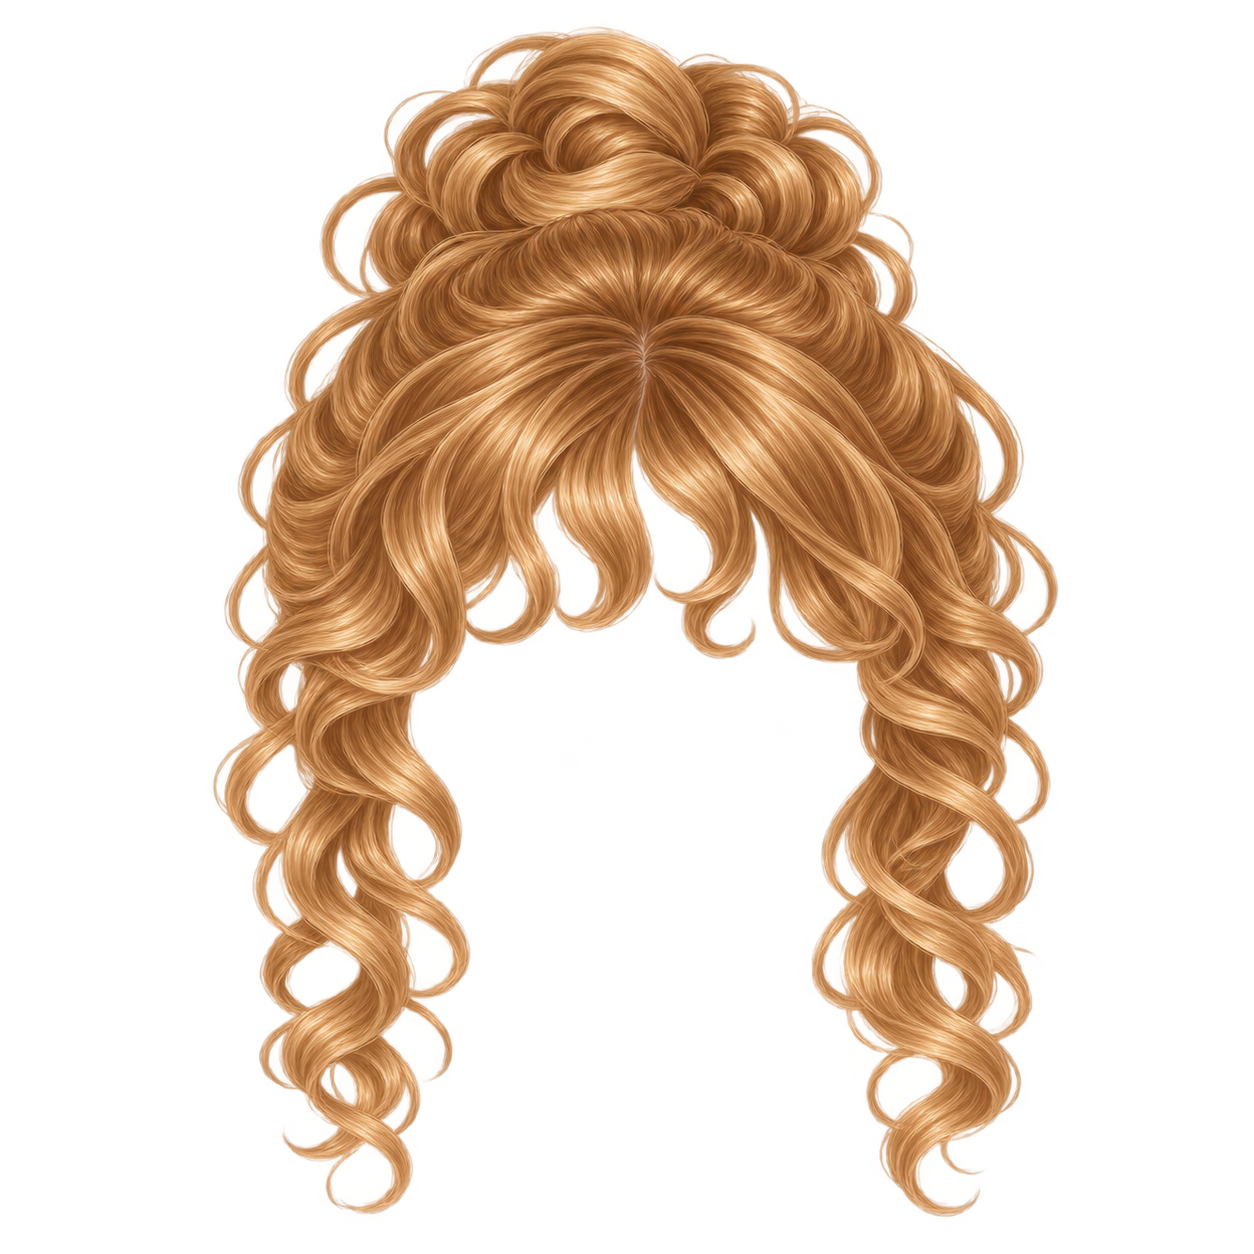
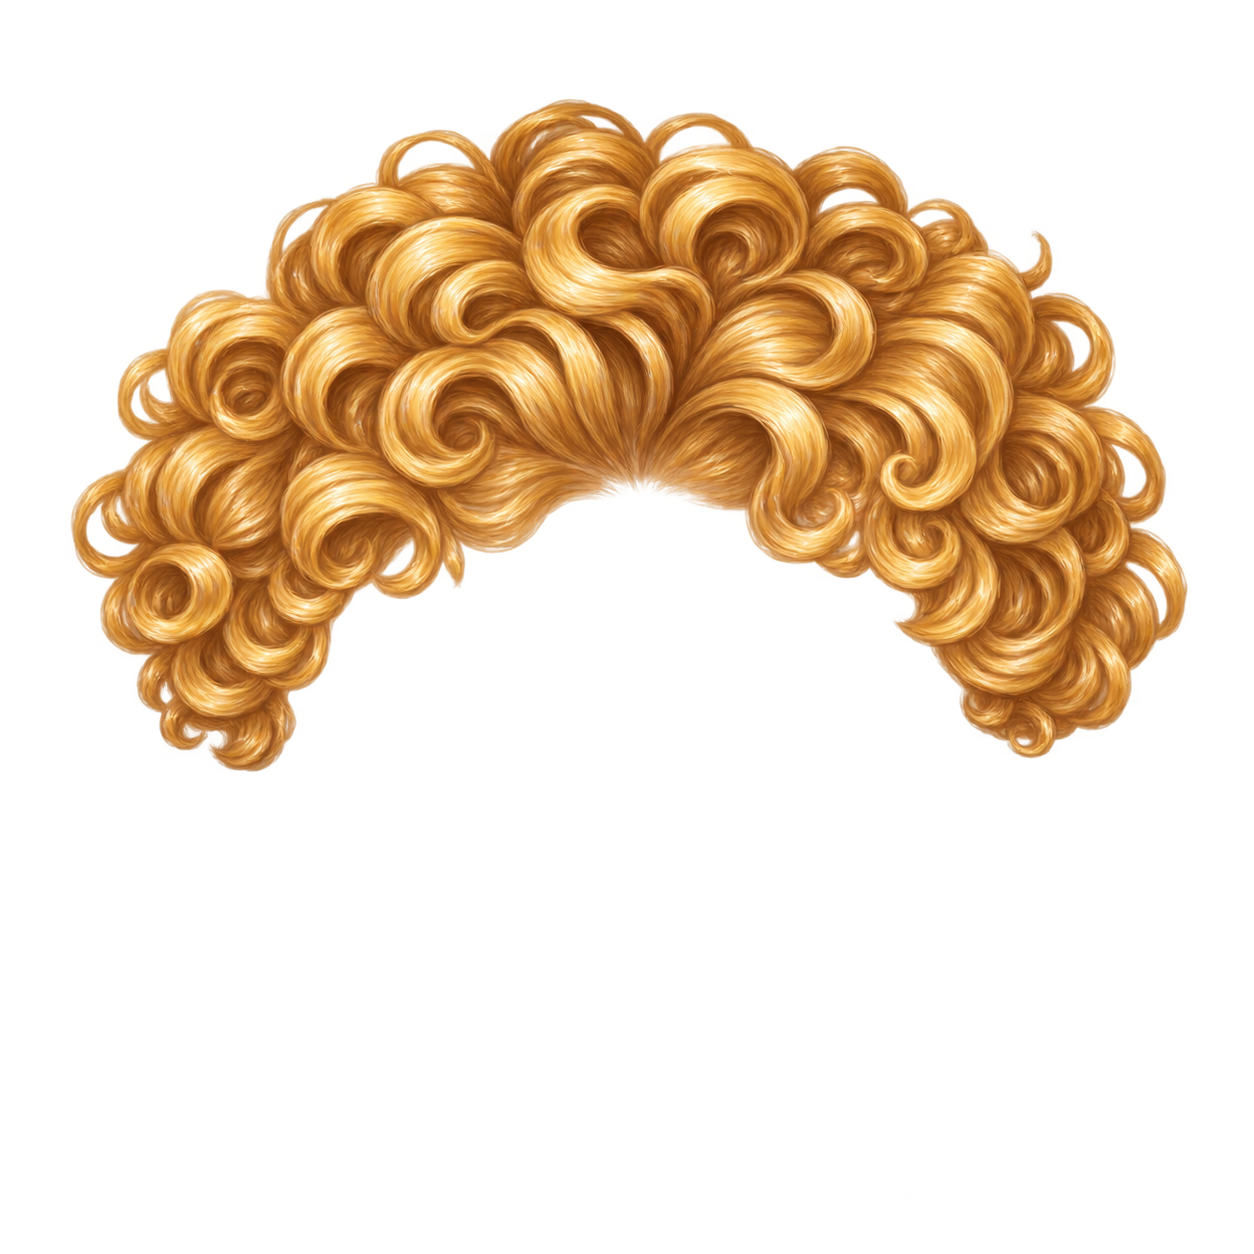
修正：重製紙娃娃髮型並保留眼睛

diff --git a/lib/services/avatar_asset_catalog.dart b/lib/services/avatar_asset_catalog.dart
@@ -81,16 +81,6 @@ class AvatarAssetCatalog {
 
   static const AvatarOptionTreatment _neutral = AvatarOptionTreatment();
 
-  /// Options without dedicated artwork reuse an aligned layer from the same
-  /// part.  The value is the path below `assets/avatars/`.
-  /// Only hair still shares a layer: the two accepted boy partings are also
-  /// used mirrored.  Every other part ships one layer per option.
-  static const Map<String, String> _sharedLayerSource = <String, String>{
-    'boy_hair_03': 'boy/hair/hair-01.png',
-    'boy_hair_04': 'boy/hair/hair-02.png',
-    'boy_hair_05': 'boy/hair/hair-01.png',
-  };
-
   /// Skin is never only a base swap: the nose layer receives the same tint so
   /// a deeper skin tone never carries a pale nose.
   /// 膚色色階。原本四個色票都是 0x33（20% 不透明度）的褐色系、以 srcATop
@@ -113,32 +103,12 @@ class AvatarAssetCatalog {
 
   static String? hairBackAssetFor(String hairId) => _hairBackAssets[hairId];
 
-  static const Map<String, AvatarOptionTreatment> _treatments =
-      <String, AvatarOptionTreatment>{
-    // Mirrored partings keep the fringe line, so no eye is newly covered.
-    'boy_hair_03': AvatarOptionTreatment(scaleX: -1),
-    'boy_hair_04': AvatarOptionTreatment(scaleX: -1),
-    // A cropped cut: the same parting drawn smaller so the ears show and the
-    // fringe sits higher.  Lowered by the amount the layer shrinks upward.
-    'boy_hair_05': AvatarOptionTreatment(scale: .92, offsetY: .02),
-  };
-
-  /// These source layers predate the aligned generated artwork and sit lower
-  /// in their canvases, so only they need the legacy upward correction.
-  static const Set<String> _legacyBoyHair = <String>{
-    'boy_hair_01',
-    'boy_hair_02',
-    'boy_hair_03',
-    'boy_hair_04',
-    'boy_hair_05',
-  };
-
   static AvatarOptionTreatment treatmentFor(String optionId) {
     if (optionId.contains('_skin_')) {
       final Color? tint = _skinTints[optionId.substring(optionId.length - 7)];
       return tint == null ? _neutral : AvatarOptionTreatment(tint: tint);
     }
-    return _treatments[optionId] ?? _neutral;
+    return _neutral;
   }
 
   static String optionAssetFor(
@@ -150,11 +120,6 @@ class AvatarAssetCatalog {
     final List<String> parts = optionId.split('_');
     final String category = parts[1];
     final String index = parts.last;
-
-    final String? shared = _sharedLayerSource[optionId];
-    if (shared != null) {
-      return 'assets/avatars/$shared';
-    }
 
     switch (category) {
       case 'hair':
@@ -200,11 +165,7 @@ class AvatarAssetCatalog {
       hairBackAsset: hairBackAssetFor(configuration.hairId),
       hairScale: hair.scale,
       hairScaleX: hair.scaleX,
-      // The original boy layers sit lower than the face canvas. New hair
-      // artwork is already aligned, so it must not inherit that correction.
-      hairOffsetY:
-          (isBoy && _legacyBoyHair.contains(configuration.hairId) ? -.1 : 0) +
-              hair.offsetY,
+      hairOffsetY: hair.offsetY,
       eyesAsset: optionAssetFor(presentation, configuration.eyesId),
       eyesScaleX: (isBoy ? 1 : girlEyeSpread) * eyes.scaleX,
       eyesScaleY: eyes.scaleY,

diff --git a/test/avatar_visual_matrix_test.dart b/test/avatar_visual_matrix_test.dart
@@ -52,7 +52,7 @@ void main() {
 
           final double overlap =
               hairId == defaultHair || skinId == skinOptions.first
-                  ? await _eyeOverlap(configuration)
+                  ? await _criticalEyeOverlap(configuration)
                   : 0;
           if (overlap > .01) {
             knownEyeOverlaps
@@ -86,12 +86,12 @@ void main() {
       }
     }
 
-    // This is an evidence baseline rather than a permanent safety allowance:
-    // Task 4 replaces every item reported here, then tightens this expectation
-    // to an empty list. Keeping it explicit prevents invisible regressions
-    // while the current unsafe artwork is being replaced.
-    expect(knownEyeOverlaps, isNotEmpty,
-        reason: 'baseline must record the known eye-covering hair artwork');
+    expect(
+      knownEyeOverlaps,
+      isEmpty,
+      reason: 'every hairstyle must leave the eye artwork unobstructed; '
+          'found ${knownEyeOverlaps.join(', ')}',
+    );
     await File('${outputDirectory.path}/known-eye-overlaps.txt').writeAsString(
       '${knownEyeOverlaps.join('\n')}\n',
     );
@@ -314,26 +314,43 @@ List<String> _hairLayerArgs(String asset, AvatarAssetBundle assets) {
   ];
 }
 
-Future<double> _eyeOverlap(AvatarConfiguration configuration) async {
+/// Hair may naturally touch eyebrow or eyelash pixels, so the full alpha masks
+/// are too broad to decide whether a learner can see the eyes.  These two
+/// windows cover the pupil/iris zone on each side of the shared 1254px canvas.
+/// A non-transparent hair pixel there is an actual eye obstruction.
+Future<double> _criticalEyeOverlap(AvatarConfiguration configuration) async {
   final AvatarAssetBundle assets = AvatarAssetCatalog.resolve(configuration);
-  final ProcessResult result = await Process.run('magick', <String>[
-    assets.hairFrontAsset,
-    '-alpha',
-    'extract',
-    '(',
-    assets.eyesAsset!,
-    '-alpha',
-    'extract',
-    ')',
-    '-compose',
-    'Multiply',
-    '-composite',
-    '-format',
-    '%[fx:mean]',
-    'info:',
-  ]);
-  expect(result.exitCode, 0, reason: result.stderr);
-  return double.parse((result.stdout as String).trim());
+  const List<String> eyeWindows = <String>[
+    '20x40+415+605',
+    '20x40+815+605',
+  ];
+  double greatestOverlap = 0;
+  for (final String window in eyeWindows) {
+    final ProcessResult result = await Process.run('magick', <String>[
+      assets.hairFrontAsset,
+      '-alpha',
+      'extract',
+      '(',
+      assets.eyesAsset!,
+      '-alpha',
+      'extract',
+      ')',
+      '-compose',
+      'Multiply',
+      '-composite',
+      '-crop',
+      window,
+      '-format',
+      '%[fx:mean]',
+      'info:',
+    ]);
+    expect(result.exitCode, 0, reason: result.stderr);
+    greatestOverlap =
+        greatestOverlap > double.parse((result.stdout as String).trim())
+            ? greatestOverlap
+            : double.parse((result.stdout as String).trim());
+  }
+  return greatestOverlap;
 }
 
 Future<void> _runMagick(List<String> args) async {

diff --git a/test/avatar_layering_test.dart b/test/avatar_layering_test.dart
@@ -75,6 +75,27 @@ void main() {
       expect(longHair.hairBackAsset, isNotNull,
           reason: 'girl_hair_06（雙馬尾）應該要有後層');
     });
+
+    test('每款髮型都要使用自己的素材與中性定位', () {
+      for (final AvatarPresentation presentation in AvatarPresentation.values) {
+        final Set<String> frontAssets = <String>{};
+        for (final String hair
+            in AvatarConfiguration.optionsFor(presentation, 'hair')) {
+          final AvatarAssetBundle bundle = AvatarAssetCatalog.resolve(
+            AvatarConfiguration.defaultFor(presentation).copyWith(hairId: hair),
+          );
+          expect(
+            frontAssets.add(bundle.hairFrontAsset),
+            isTrue,
+            reason: '$hair 不可鏡像或縮放重用另一款髮型素材',
+          );
+          expect(bundle.hairScale, 1, reason: '$hair 必須由素材本身對齊');
+          expect(bundle.hairScaleX, 1, reason: '$hair 不可鏡像另一款髮型');
+          expect(bundle.hairOffsetX, 0, reason: '$hair 不可偏離畫布中心');
+          expect(bundle.hairOffsetY, 0, reason: '$hair 必須由素材本身垂直對齊');
+        }
+      }
+    });
   });
 
   group('眼睛與眼鏡', () {
